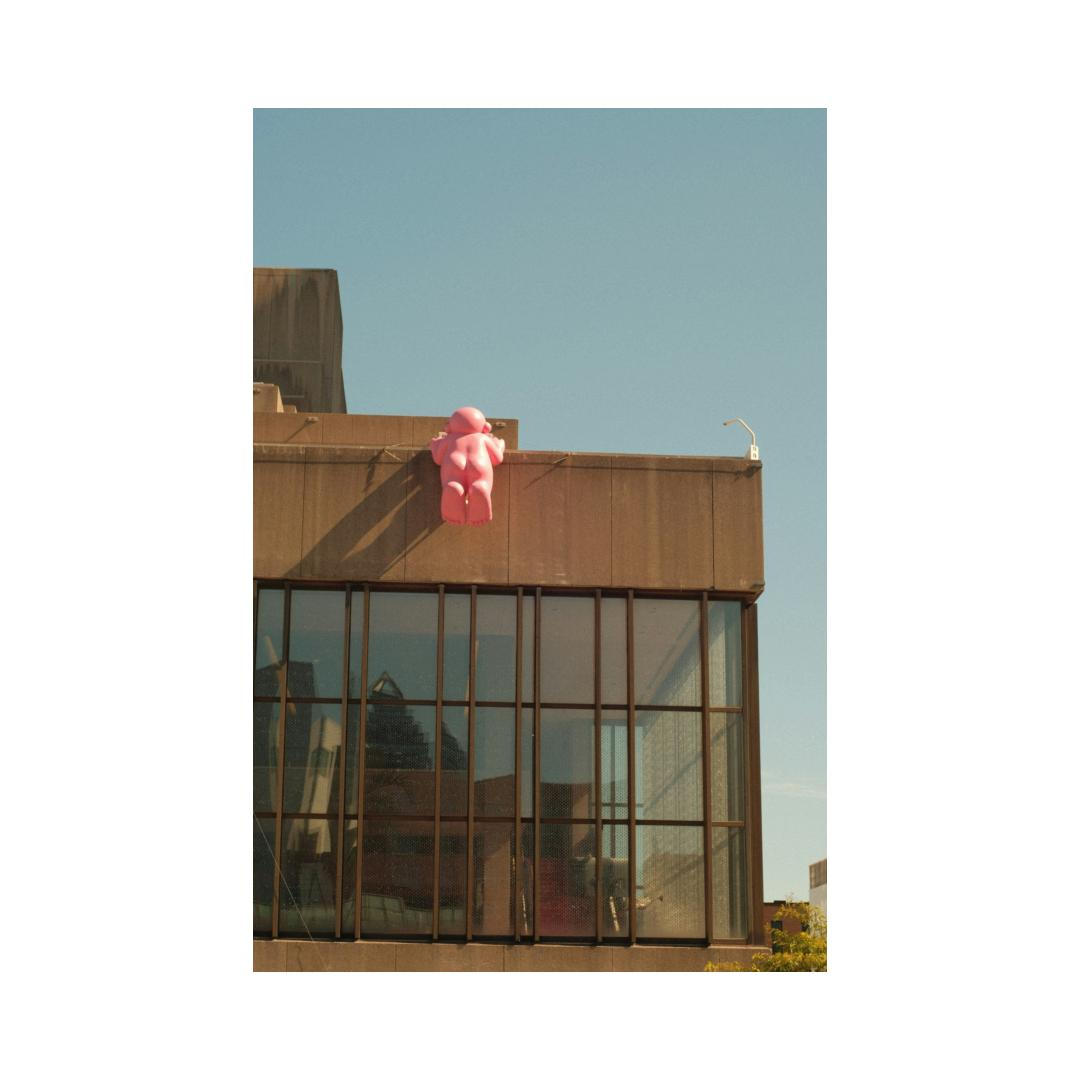
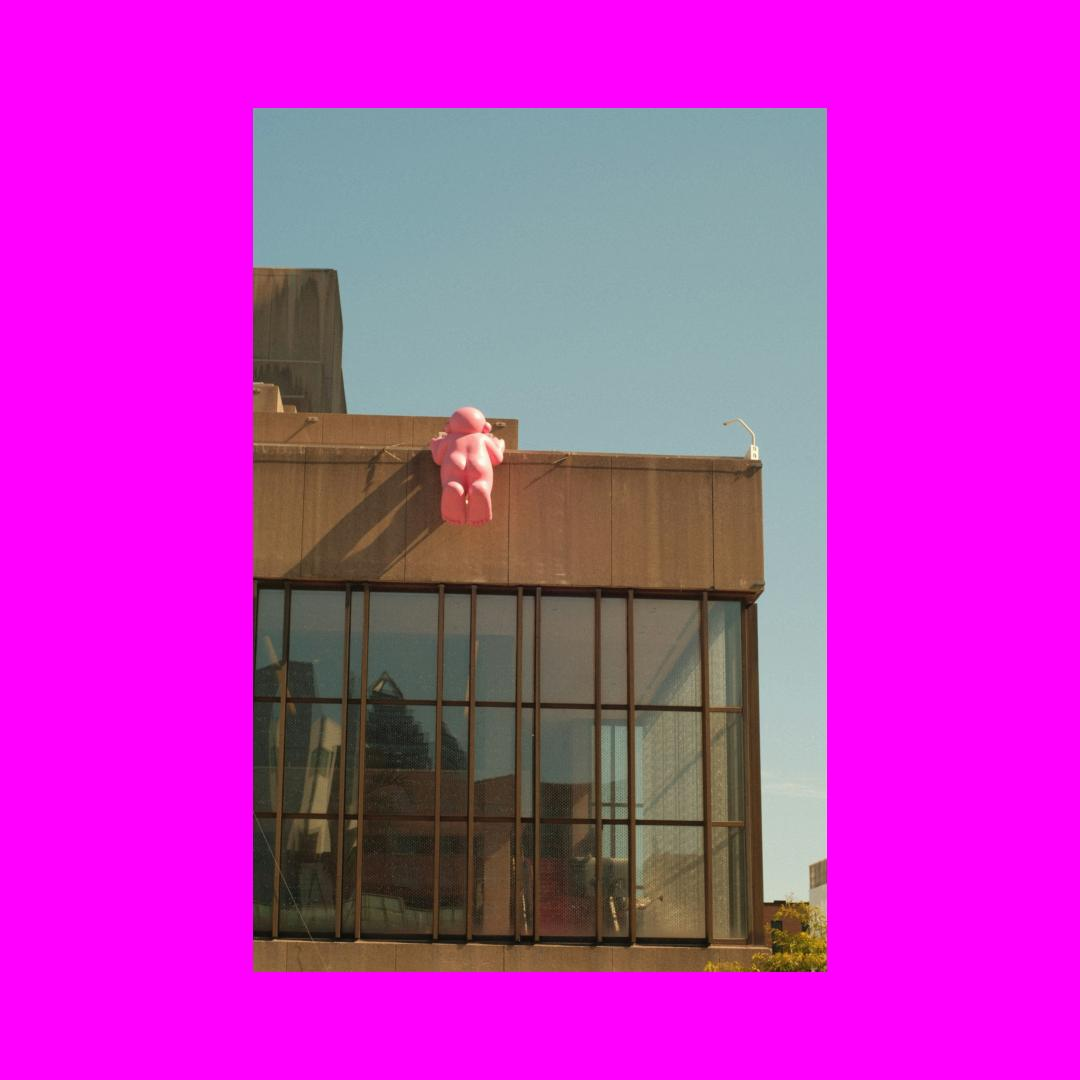
fix canvas color hex code validation

diff --git a/instaborder.py b/instaborder.py
@@ -27,7 +27,7 @@ parser.add_argument("-p", "--percentage", default=0.8, type=float,
                     help="image length as percentage of canvas edge with tightest fit")
 parser.add_argument("-ct", "--canvas-type", default="square", choices=["square", "landscape", "portrait"],
                     help="canvas (background) type supported by Instagram")
-parser.add_argument("-cc", "--canvas-color", default="#ffffff",
+parser.add_argument("-cc", "--canvas-color", default="ffffff",
                     help="hex code of canvas (background) color, example: '#ff0000' for red, \
                     note: do NOT include '#' before the hex code")
 parser.add_argument("-rq", "--resize-quality", type=int, default=2, choices=range(1,4),
@@ -49,7 +49,7 @@ if __name__ == "__main__":
     
     # check valid canvas color
     valid_digits = [str(i) for i in range(10)] + ["a", "b", "c", "d", "e", "f"]
-    for digit in args.canvas_color:
+    for digit in args.canvas_color.lower():
         if digit not in valid_digits:
             msg = f"Specified canvas (background) color is invalid: {args.canvas_color}"
             raise ValueError(msg)
@@ -71,7 +71,7 @@ if __name__ == "__main__":
     
     percentage = args.percentage
     canvas_type = ASPECT_RATIOS[args.canvas_type]
-    canvas_color = "#" + args.canvas_color
+    canvas_color = "#" + args.canvas_color.lower()
     resample = QUALITY[args.resize_quality]
 
     if os.path.isfile(src):  # single file
@@ -83,6 +83,11 @@ if __name__ == "__main__":
     elif os.path.isdir(src):  # directory with files
         for dir, sub_dir, files in os.walk(src):
             for file in files:
+                ext = os.path.splitext(file)[-1]
+                if ext not in [".jpg", ".jpeg", ".png", ".tiff", ".gif"]:
+                    print(f"skipping {file}: {ext} not supported")
+                    continue
+                print(f"processing {file}")
                 img_path = os.path.join(dir, file)
                 filename = get_save_filename(img_path, args.canvas_type)
                 savedir = os.path.join(dst, filename)
